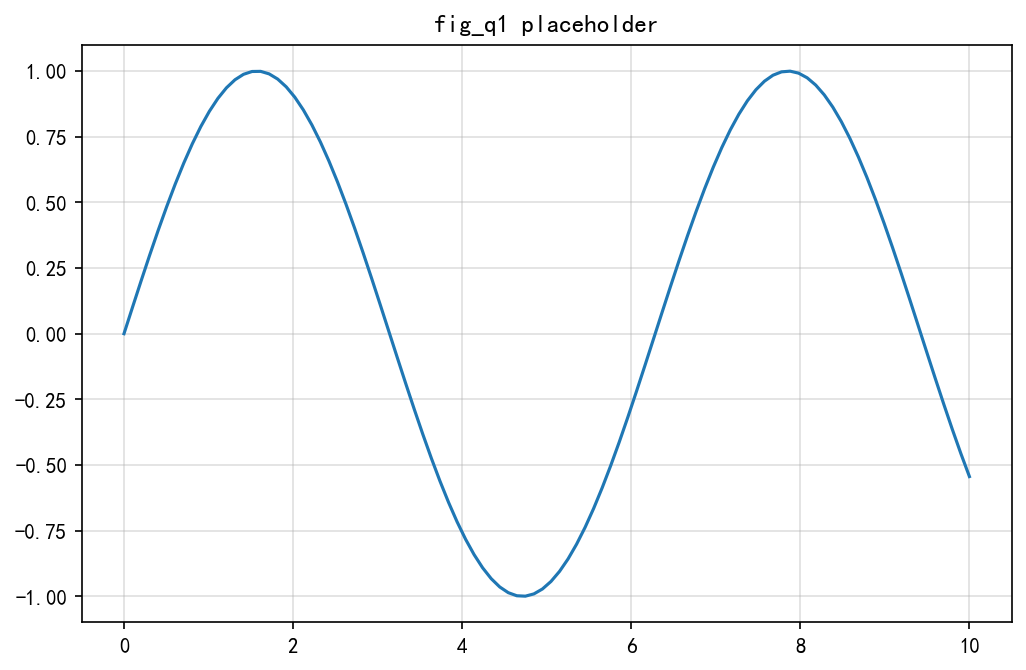
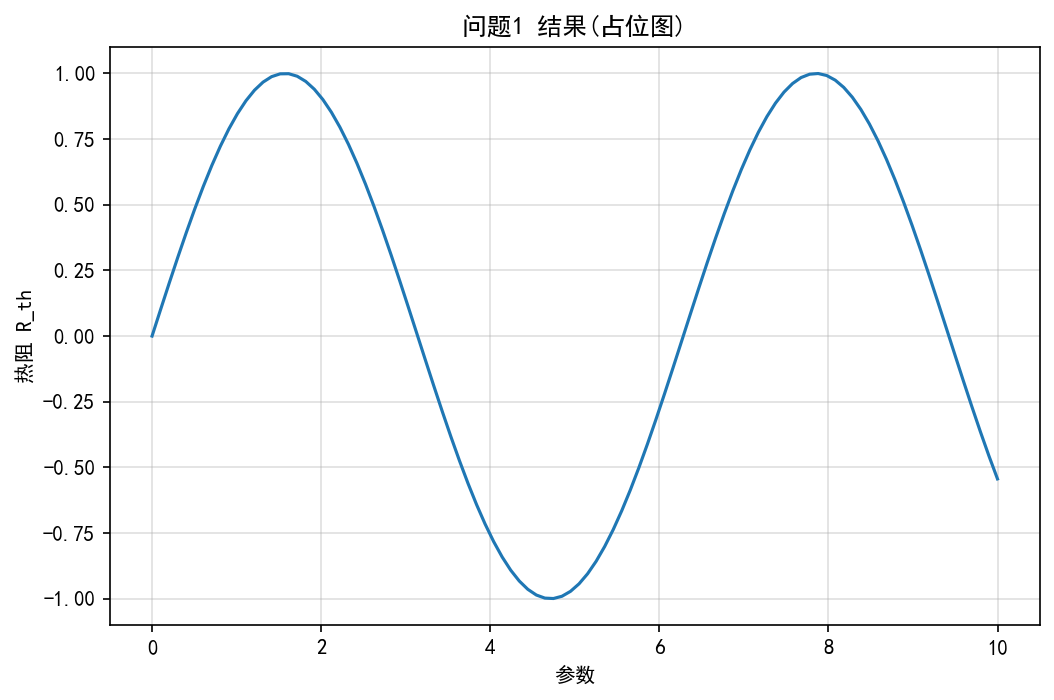
修复:make pdf 改用 xelatex(不依赖 perl/latexmk);fig 脚本列表写死兼容 Windows make

diff --git a/code/src/fig_sensitivity.py b/code/src/fig_sensitivity.py
@@ -1,0 +1,23 @@
+# =====================================================================
+#  fig_sensitivity.py — 灵敏度分析占位图(论文 06-sensitivity.tex 引用)
+#  比赛开始后:替换为真实的灵敏度分析图(参数扰动对性能的影响)
+# =====================================================================
+import sys
+from pathlib import Path
+
+sys.path.insert(0, str(Path(__file__).resolve().parent))
+import common
+import numpy as np
+import matplotlib.pyplot as plt
+
+# ---- 占位内容:替换为真实数据 ----
+x = np.linspace(0, 10, 100)
+y = np.cos(x)
+
+fig, ax = plt.subplots()
+ax.plot(x, y)
+ax.set_xlabel("参数扰动幅度")
+ax.set_ylabel("性能指标变化率")
+ax.set_title("灵敏度分析(占位图)")
+
+common.savefig("fig_sensitivity.png")

diff --git a/code/src/fig_q1.py b/code/src/fig_q1.py
@@ -1,0 +1,23 @@
+# =====================================================================
+#  fig_q1.py — 问题1 结果占位图(论文 05-solution.tex 引用)
+#  比赛开始后:替换为真实的问题1 结果图(参数影响规律等)
+# =====================================================================
+import sys
+from pathlib import Path
+
+sys.path.insert(0, str(Path(__file__).resolve().parent))
+import common
+import numpy as np
+import matplotlib.pyplot as plt
+
+# ---- 占位内容:替换为真实数据 ----
+x = np.linspace(0, 10, 100)
+y = np.sin(x)
+
+fig, ax = plt.subplots()
+ax.plot(x, y)
+ax.set_xlabel("参数")
+ax.set_ylabel("热阻 R_th")
+ax.set_title("问题1 结果(占位图)")
+
+common.savefig("fig_q1.png")
